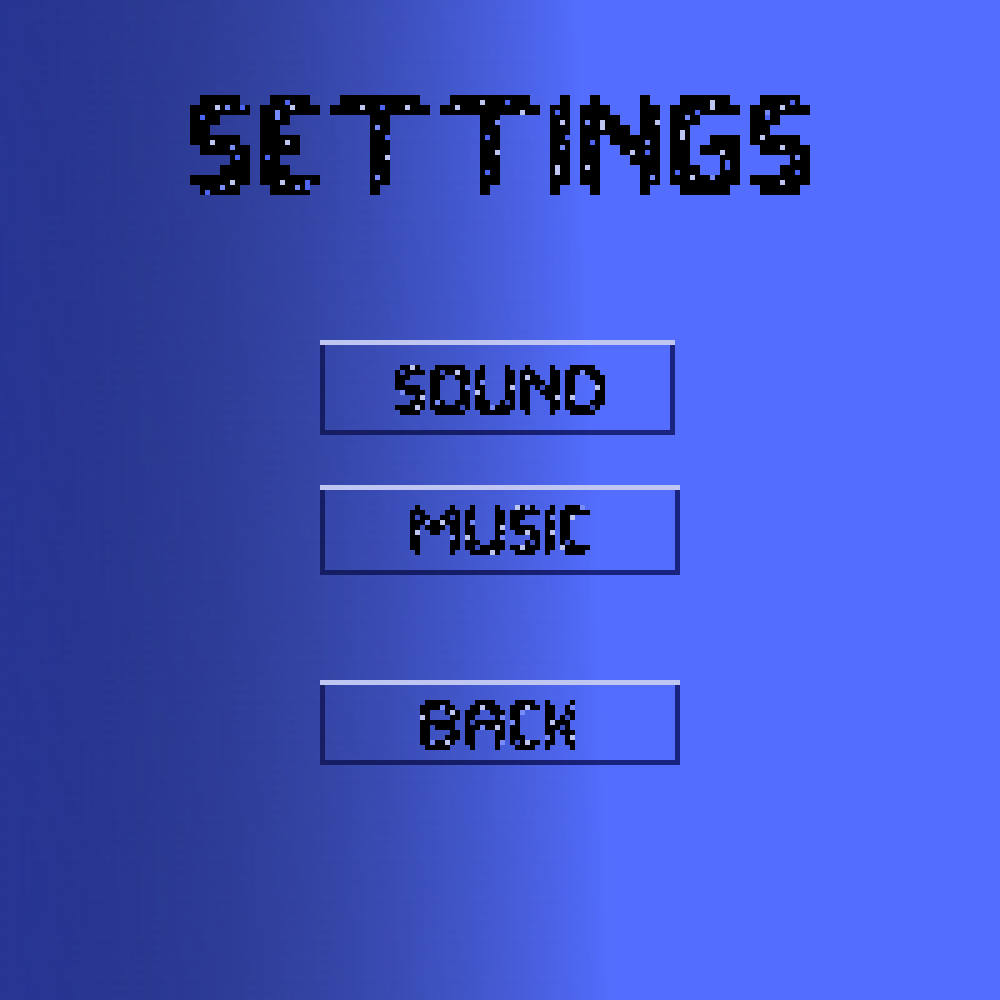
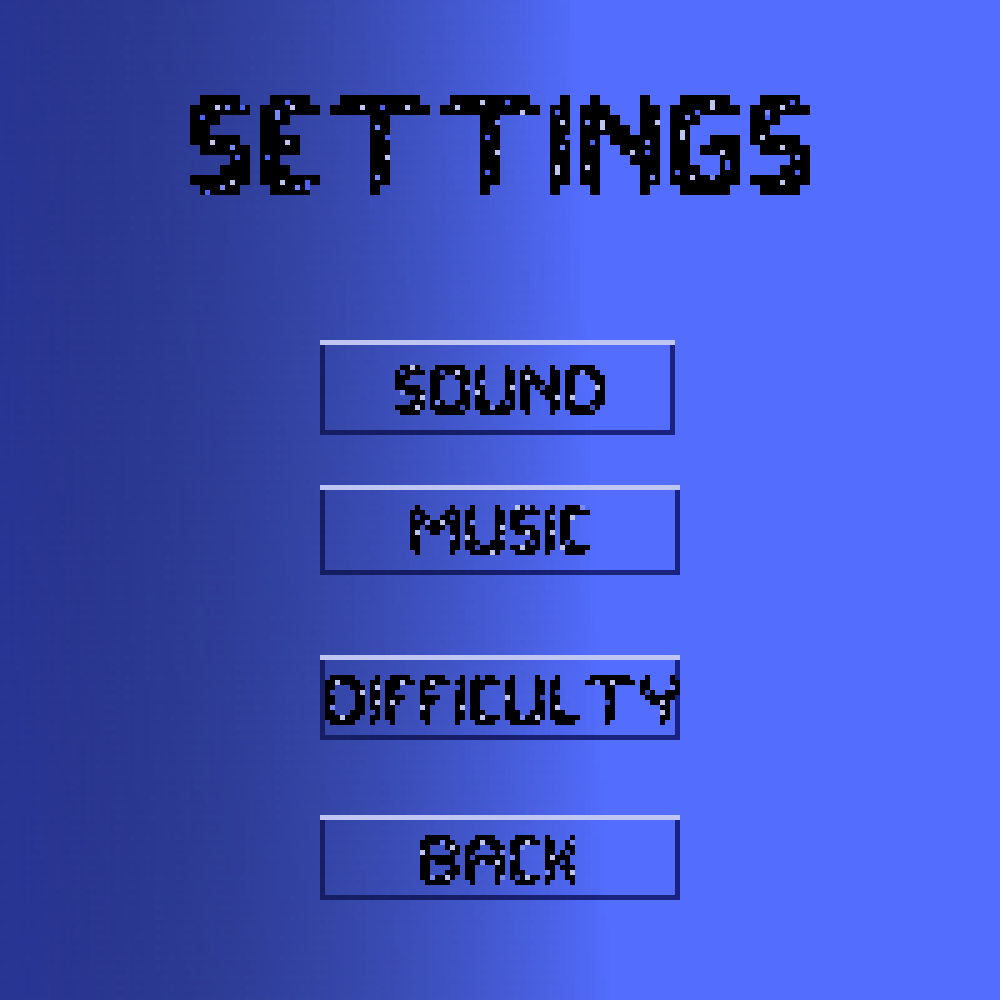
Adding difficulty setting

Changed region(s): [[0.31, 0.651, 0.682, 0.775], [0.31, 0.806, 0.682, 0.899]]

diff --git a/logic.js b/logic.js
@@ -26,21 +26,23 @@ const BuildingPrototype = {
     damage: 30
 }
 
-let difficulty = 0; // TODO set difficulty in menu
 const DifficultyPrototype = [
     {
+        name: "Easy",
         time: 1801,
         numberOfBuildings: 5,
         numberOfPlayerUnits: 6,
         numberOfEnemyUnits: 3
     },
     {
+        name: "Normal",
         time: 901,
         numberOfBuildings: 10,
         numberOfPlayerUnits: 5,
         numberOfEnemyUnits: 5
     },
     {
+        name: "Hard",
         time: 451,
         numberOfBuildings: 20,
         numberOfPlayerUnits: 7,
@@ -56,6 +58,7 @@ let then = Date.now(), now = undefined, elapsed = undefined; // Used to calculat
 const playerScore = document.getElementById('playerScore');
 const enemyScore = document.getElementById('enemyScore');
 const timer = document.getElementById('timer');
+const difficultyButton = document.getElementById('difficultyButton');
 const canvas = document.getElementById('board');
 const context = canvas.getContext('2d');
 canvas.width = window.innerWidth;
@@ -70,7 +73,8 @@ let props = undefined;
 let numberOfPlayerBuildings = 0;
 let numberOfEnemyBuildings = 0;
 let timerID = undefined;
-let time = DifficultyPrototype[difficulty].time;
+let time = undefined;
+let difficulty = parseInt(localStorage.getItem('difficulty'));
 
 const mouse = {
     x: innerWidth / 2,
@@ -119,6 +123,15 @@ addEventListener('click', (event) => {
         
     })
 });
+
+difficultyButton.addEventListener('click', () => {
+    difficulty++;
+    if(difficulty+1 > DifficultyPrototype.length){
+        difficulty = 0;
+    }
+    localStorage.setItem('difficulty', difficulty);
+    alert('Difficulty: ' + DifficultyPrototype[difficulty].name);
+})
 
 // -------------------------------- FUNCTIONS --------------------------------
 
@@ -608,6 +621,8 @@ export function animate({fps, state}){
 
 export function initialize(){
     
+    difficulty = parseInt(localStorage.getItem('difficulty'));
+
     // Used to calculate elapsed time (FPS)
     then = Date.now();
     now = undefined;

diff --git a/styles/style.css b/styles/style.css
@@ -73,7 +73,7 @@ canvas, .menu{
 }
 
 .settingsMenuButtons:not(:first-child){
-    margin-bottom: 5.2rem;
+    margin-bottom: 3.5rem;
 }
 
 #controlsMenuButton{
@@ -108,8 +108,14 @@ canvas, .menu{
 }
 
 #counters{
+    display: inline-block;
     visibility: hidden;
+    width:fit-content;
+    height:fit-content;
     color: white;
     position: relative;
     left: 70rem;
+    margin: 0;
+    padding: 0;
+    border: 0;
 }

diff --git a/index.html b/index.html
@@ -24,6 +24,8 @@
         <br>
         <div class="buttons settingsMenuButtons" id="musicButton"></div>
         <br>
+        <div class="buttons settingsMenuButtons" id="difficultyButton"></div>
+        <br>
         <div class="buttons backButtons settingsMenuButtons"></div>
     </div>
     <div id="controlsMenu" class="menu">

diff --git a/game.js b/game.js
@@ -174,6 +174,9 @@ window.addEventListener('load', () => {
         musicElement.volume = localStorage.getItem('musicVolume');
         musicElement.play();
     }
+    if(localStorage.getItem('difficulty') === null){
+        localStorage.setItem('difficulty', 0);
+    }
 });
 
 playButton.addEventListener('click', playGame);
